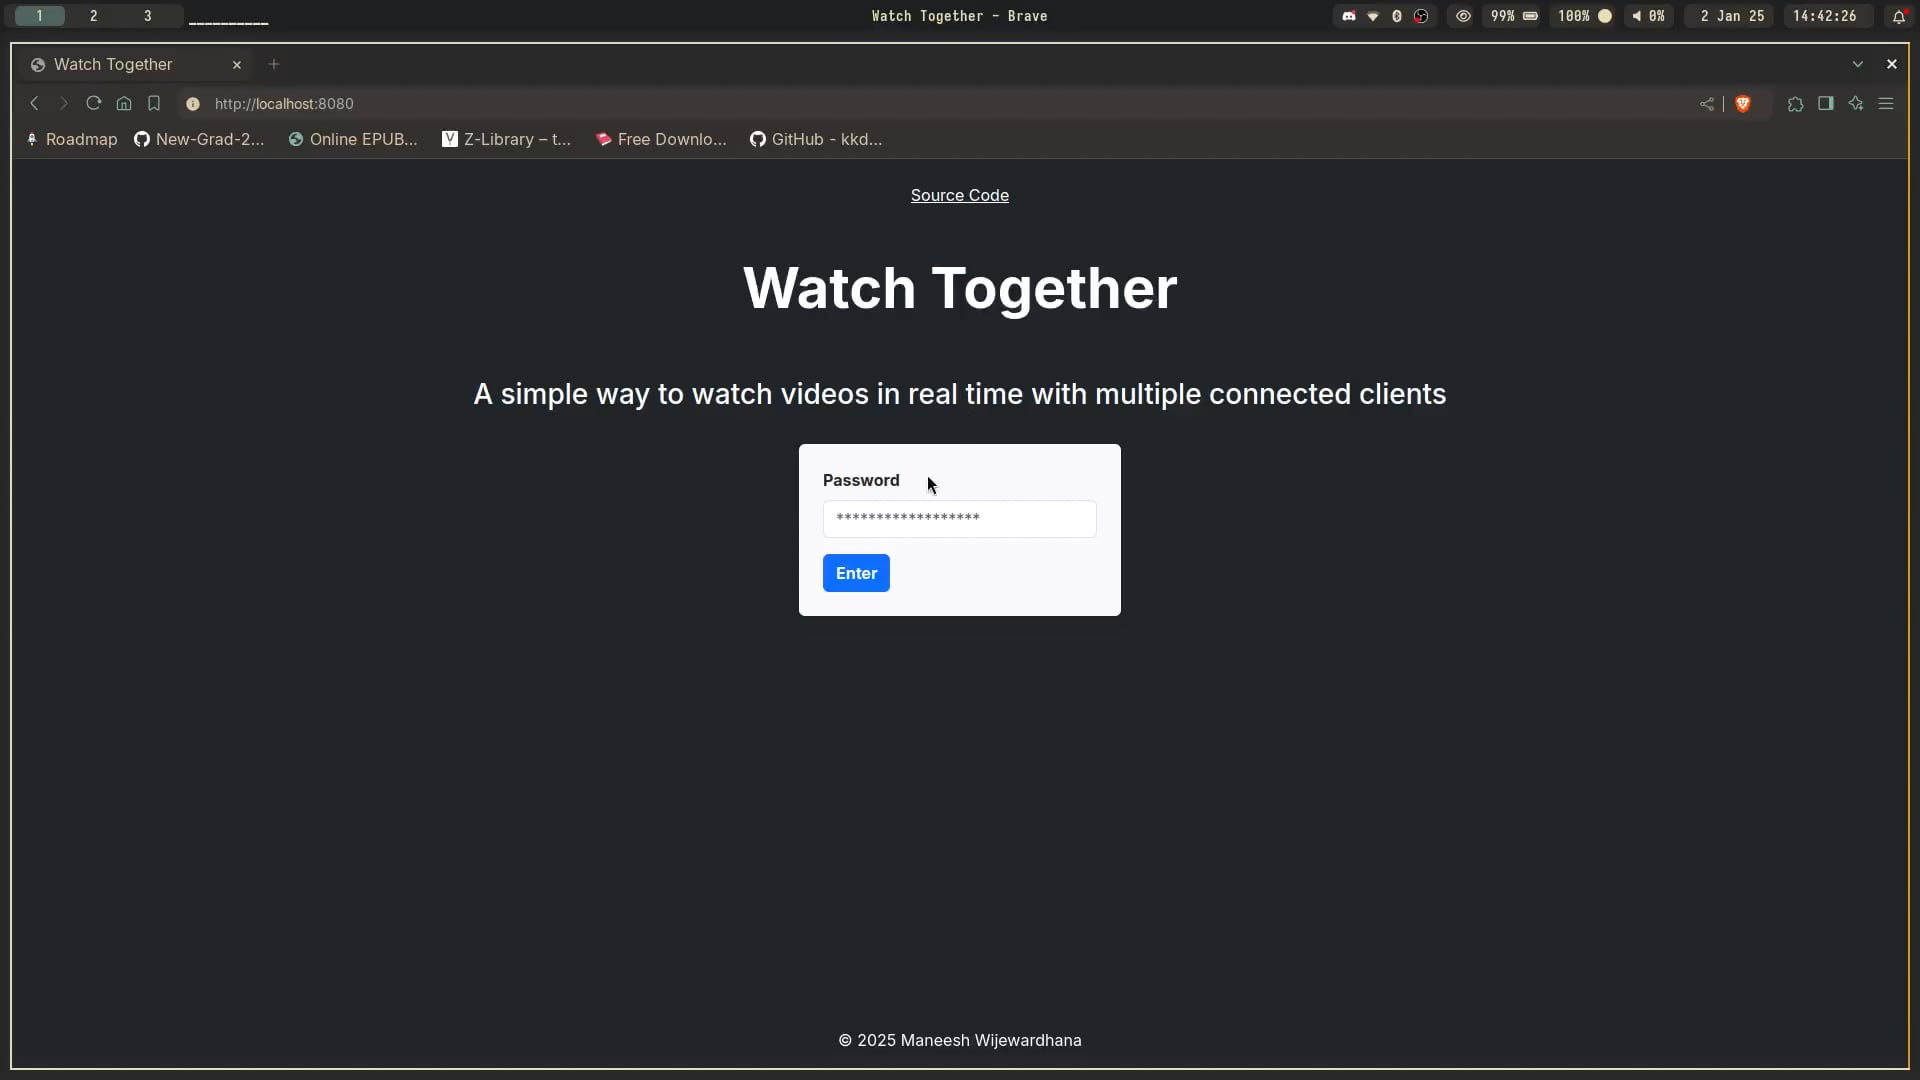
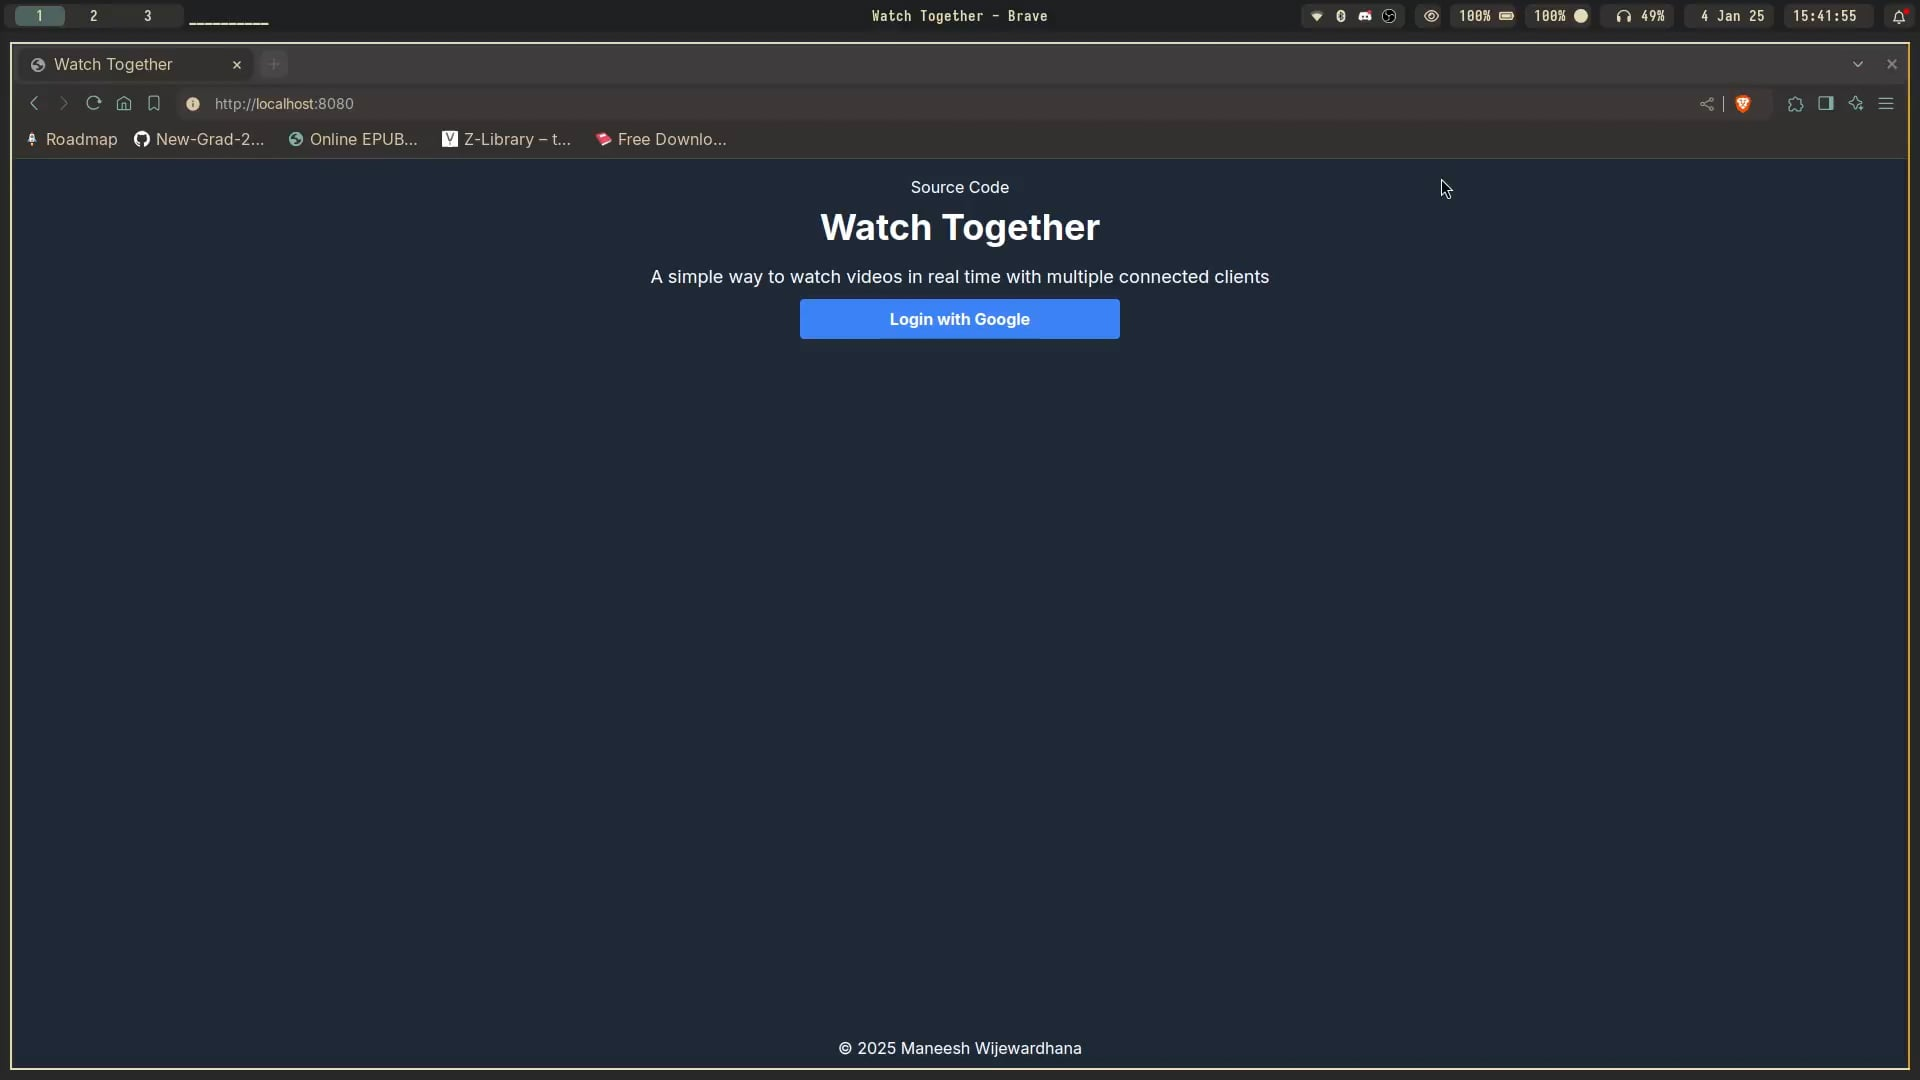
use manager for message broadcasting

diff --git a/main.go b/main.go
@@ -7,7 +7,6 @@ import (
 	"net/http"
 	"os"
 	"strings"
-	"sync"
 	"time"
 
 	"github.com/ManeeshWije/watch-together/db"
@@ -31,35 +30,6 @@ var upgrader = websocket.Upgrader{
 		origin := r.Header.Get("Origin")
 		return origin == "http://localhost:8080" || origin == "https://watch-together.up.railway.app"
 	},
-}
-
-var clients = make([]*websocket.Conn, 0)
-var clientsMutex = &sync.Mutex{}
-
-func broadcastMessage(sender *websocket.Conn, message string) {
-	clientsMutex.Lock()
-	defer clientsMutex.Unlock()
-	for _, client := range clients {
-		if client != sender {
-			err := client.WriteMessage(websocket.TextMessage, []byte(message))
-			if err != nil {
-				log.Printf("Error broadcasting message to client: %v", err)
-				client.Close()
-				removeClient(client)
-			}
-		}
-	}
-}
-
-func removeClient(conn *websocket.Conn) {
-	clientsMutex.Lock()
-	defer clientsMutex.Unlock()
-	for i, client := range clients {
-		if client == conn {
-			clients = append(clients[:i], clients[i+1:]...)
-			break
-		}
-	}
 }
 
 func wsEndpoint(dbConn *sql.DB, w http.ResponseWriter, r *http.Request) {
@@ -112,11 +82,11 @@ func wsEndpoint(dbConn *sql.DB, w http.ResponseWriter, r *http.Request) {
 		_, message, err := ws.ReadMessage()
 		if err != nil {
 			log.Println(err)
-			removeClient(ws)
+			websocketmanager.RemoveConnection(sessionID)
 			break
 		}
 		if string(message) == "PLAY" || string(message) == "PAUSE" || strings.Contains(string(message), "TIMESTAMP") {
-			broadcastMessage(ws, string(message))
+			websocketmanager.BroadcastMessage(ws, string(message))
 		} else {
 			err = json.Unmarshal(message, &msg)
 			if err != nil {

diff --git a/websocketmanager/manager.go b/websocketmanager/manager.go
@@ -69,3 +69,19 @@ func ListConnections() []*ConnectionMetadata {
 	}
 	return allConnections
 }
+
+func BroadcastMessage(sender *websocket.Conn, message string) {
+	connections := ListConnections()
+
+	// Broadcast to all connections except the sender
+	for _, connMetadata := range connections {
+		if connMetadata.Conn != sender {
+			err := connMetadata.Conn.WriteMessage(websocket.TextMessage, []byte(message))
+			if err != nil {
+				log.Printf("Error broadcasting message to client: %v", err)
+				connMetadata.Conn.Close()
+				RemoveConnection(connMetadata.SessionID)
+			}
+		}
+	}
+}

diff --git a/README.md b/README.md
@@ -5,7 +5,7 @@
 
 # Demo
 
-[![Demo](./media/thumb.jpg)](https://vimeo.com/1043507662?share=copy)
+[![Demo](./media/thumb.jpg)](https://vimeo.com/1043972987?share=copy#t=0)
 
 # Developing
 
@@ -30,6 +30,6 @@
 
 # TODO
 
-- Add rate limiting on endpoints
+- Reconnect logic
 - Use `slog` and clean up inconsistencies of fmt and log
 - Chat system?
